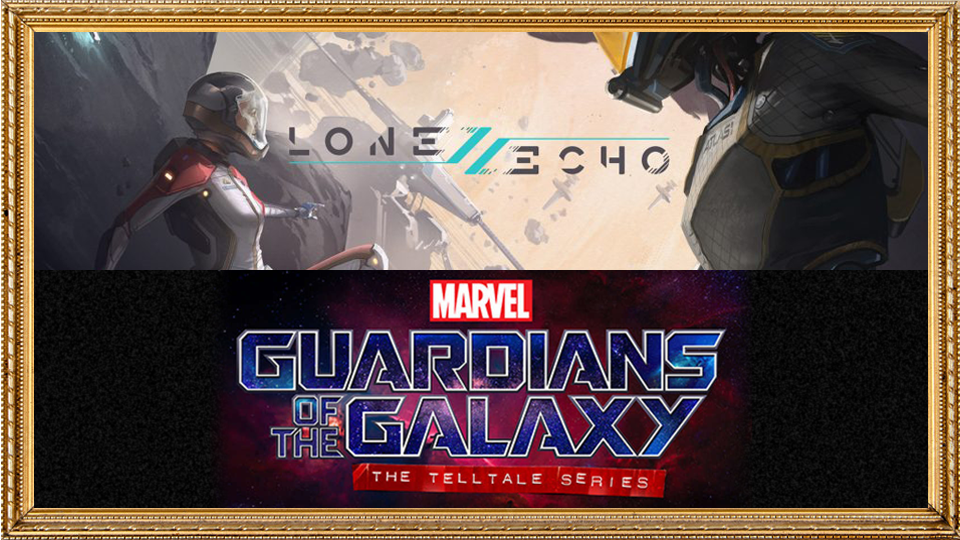
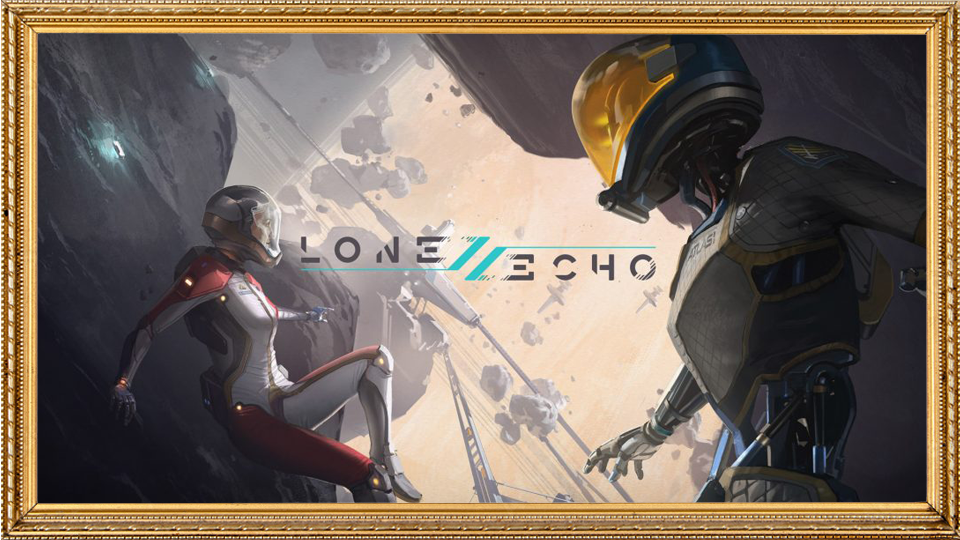
Revamped ND section

diff --git a/narrative-design/index.html b/narrative-design/index.html
@@ -62,65 +62,56 @@
         <div id="project1-content" class="piece-content">
         
             <h1>Narrative Design</h1>
-        
-            <img src="/images/buttons/home-narrative-design.png" alt="Project 1 Image" class="piece-image">
             
-            <!-- From old wordpress Portfolio -->
-            
-            <h2>Introduction</h2>
-            <p>Story is fundamental to the human experience – whether telling a story, imagining one, or living one to tell later. I’ve been honored to continue this age-old tradition through my work on some incredible properties.</p>
-
-            <h2>Lone Echo II</h2>
-            <p>As a lifelong sci-fi fan and VR enthusiast, it was a dream come true working on <em>Lone Echo II</em>. Unexpectedly taking this dream a step further, I had the incredible honor of seeing the project win the D.I.C.E. Award for Immersive Reality Game of the Year and be nominated for the Webby Award for Best Narrative Experience.</p>
-            
-            <div style="clear: both;"></div> <!-- This div clears the float (piece-image) -->
-            
-            <p>In my role as Associate Technical Narrative Designer, I was responsible for delivering a large portion of the game's narrative needs:</p>
-
-            <ul>
-                <li><a href="https://youtu.be/Y-OJlw4teFM?t=1591">Generator A</a> – Learn about your new companions while restoring power.</li>
-                <li><a href="https://www.youtube.com/watch?v=SBIibo0o1Us&amp;t=85s">Astraea Wreckage I</a> &amp; <a href="https://youtu.be/XK4T7drvxy4?t=1351">II</a> – Mend relationships while nabbing alien tech.</li>
-                <li><a href="https://youtu.be/jY1ACKXwyjM?t=1496">Research Facility</a> – Learn about your companion’s long-lost love interest while upgrading your robot shell.</li>
-                <li><a href="https://youtu.be/qpXpiKsLRcs?t=2181">Chiron Station</a> – Relive the hopes and dreams – and horrible fates – of the former station crew while exploring inside and outside the station.</li>
-            </ul>
-
-            <p>I’m especially proud of the dialogue I wrote for the Research Facility, where you discover the <a href="https://youtu.be/jY1ACKXwyjM?t=1020">heart-rending message</a> left behind for one of your companions.</p>
-            
-            <h2>Marvel’s Guardians of the Galaxy: The Telltale Series</h2>
-
-            <p>I spent much of my youth daydreaming in the Marvel universe – playing with action figures, reading comics, drawing my own superheroes, and even having a personal rendition of Spider-Man signed by Stan Lee! Little did I know I’d one day have a chance to put my mark on that universe.</p>
-
-            <p>The details below cover the work I did on Marvel’s <em>Guardians of the Galaxy</em> – a franchise known for its unique blend of thrilling adventure and emotional weight. <a href="https://youtu.be/l8nzuk-nwGY"><em>Telltale’s standalone season</em></a> contains five episodes.</p>
-
-            <h3>Season-wide</h3>
-            <ul>
-                <li>Stubbed episode descriptions for the download screen.</li>
-            </ul>
-
-            <h3>Episode 1</h3>
-            <ul>
-                <li>Stubbed dialog and stage direction for “Next Time On.”</li>
-            </ul>
-
-            <h3>Episode 2</h3>
-            <ul>
-                <li>Designed and implemented “Previously On.”</li>
-                <li>Stubbed freewalk and station camera interactions.</li>
-                <li>Performed design passes.</li>
-            </ul>
-
-            <h3>Episode 4</h3>
-            <ul>
-                <li>Stubbed dialog, stage direction, choices, and action for the spectacle-filled opening scene.</li>
-                <li>Stubbed freewalk and station camera interactions.</li>
-                <li>Implemented freewalk design.</li>
-            </ul>
-
-            <h3>Episode 5</h3>
-            <ul>
-                <li>Stubbed dialog, stage direction, choices, and interactions for a few scenes – including [spoiler alert!] the dramatic, emotional reunion between Peter and his formerly deceased mother.</li>
-                <li>Implemented freewalk design.</li>
-            </ul>
+            <div class="splash">
+                <img src="/images/buttons/home-narrative-design.png" alt="Project 1 Image" class="piece-image">
+                <div class="body-content">
+                    <h2>I love storytelling</h2>
+                    <p>Stories are of vital importance to us humans. We feel what the narrator feels, their journey moving us to tears, sparking laughter, and raising intrigue. We get excited about how our personal stories will unfold, and we love sharing the best parts with the people we care about.</p>
+                    <p>As a narrative-focused game designer, I'm proud to carry on our millenia-old tradition of storytelling in the ever-evolving medium of video games. Below are some of my favorite work samples from <em>Lone Echo II</em>, in which I was mainly responsible for the first-draft writing of dialogue and the visual scripting of dialogue events.</p>
+                    <p class="italics">Note: The videos below contain commentary to help illustrate how uniquely powerful a VR experience can feel. The first voice you hear in each video is the commentator.</p>
+                </div>
+            </div>
+            <hr>
+            <div class="splash">
+                <div class="splash-desc body-content">
+                    <h3>Astraea Wreckage &ndash; (Re)Introducing Apollo</h3>
+                    <p>Designing this section of the game was a fun balancing act. For example, Apollo's alarmed state was an effective way to introduce him in this game, since you get a nice jolt whether you remember him from the first game or are meeting him for the first time right now.</p>
+                    <p>The most challenging aspect of the bridge conversation was finding a palatable way to cover all the beats required by the game outline. Ultimately, by striking the right balance between interactivity, spectacle, and fun dialogue, we were able to maintain momentum through the scene.</p>
+                </div>
+                <div class="video-background">
+                    <div class="video-container">
+                        <iframe class="youtube-player" src="https://www.youtube.com/embed/SBIibo0o1Us?si=4LRRGB2Vp-MFOksR&amp;start=290" title="YouTube video player" frameborder="0" allow="accelerometer; autoplay; clipboard-write; encrypted-media; gyroscope; picture-in-picture; web-share" referrerpolicy="strict-origin-when-cross-origin" allowfullscreen></iframe>
+                    </div>
+                </div>
+            </div>
+            <hr>
+            <div class="splash">
+                <div class="splash-desc body-content">
+                    <h3>Research Facility &ndash; A Lost Love</h3>
+                    <p>Get ready for the most dramatic lock-and-key puzzle of all time! Seriously, though, this sequence packs an emotional punch.</p>
+                    <p>Having only heard bits and pieces about a relationship between your companion Dr. Harlan and his former crewmate, the infested research facility offers a surprise revelation: these crusading scientists were in love, but they risked it all to save humanity.</p>
+                    <p>Hopefully, their sacrifice will not have been in vain...</p>
+                </div>
+                <div class="video-background">
+                    <div class="video-container">
+                        <iframe class="youtube-player" src="https://www.youtube.com/embed/jY1ACKXwyjM?si=5q2Hk-xSGYAMSaW-&amp;start=1004" title="YouTube video player" frameborder="0" allow="accelerometer; autoplay; clipboard-write; encrypted-media; gyroscope; picture-in-picture; web-share" referrerpolicy="strict-origin-when-cross-origin" allowfullscreen></iframe>
+                    </div>
+                </div>
+            </div>
+            <hr>
+            <div class="splash">
+                <div class="splash-desc body-content">
+                    <h3>Chiron Station &ndash; Humanity's Last Hope</h3>
+                    <p>One way the <em>Lone Echo</em> series achieved such a great sense of immersion was by filling the world with side content. For example, tiny research labs scattered throughout Chrion Station provide not just equipment upgrades, but also opportunities to learn more about the hopes, dreams, and fates of the station's former occupants.</p>
+                    <p>Part of the challenge of narrative design in such an open world setting is accounting for different player states. As this video shows, players are free to discover many areas on their own; but sometimes, they're not yet equipped to proceed.</p>
+                </div>
+                <div class="video-background">
+                    <div class="video-container">
+                        <iframe class="youtube-player" src="https://www.youtube.com/embed/qpXpiKsLRcs?si=vYt5ipu9Xyh_ODKc&amp;start=585" title="YouTube video player" frameborder="0" allow="accelerometer; autoplay; clipboard-write; encrypted-media; gyroscope; picture-in-picture; web-share" referrerpolicy="strict-origin-when-cross-origin" allowfullscreen></iframe>
+                    </div>
+                </div>
+            </div>
             
         </div> <!-- piece-content -->
 

diff --git a/child-page.css b/child-page.css
@@ -1,5 +1,9 @@
+/************************************************************************************/
+/* MAIN CONTENT *********************************************************************/
+/************************************************************************************/
+
 .piece-content {
-    margin: 0 auto 20px;
+    margin: 0 auto 50px;
     padding: 20px;
     background-color: #f9f9f9;
     border: 1px solid #ddd;
@@ -30,7 +34,7 @@
     width: 100%;
     max-width: 400px;
     height: auto;
-    margin-right: 20px;
+    /*margin-right: 20px;*/
     margin-bottom: 10px;
     float: left;
     box-shadow: 0 4px 8px rgba(0, 0, 0, 0.3); /* Soft shadow */
@@ -78,14 +82,27 @@ th {
     border-right: none;
 }
 
+.splash {
+    display: flex;
+    flex-direction: column;
+    justify-content: center;
+    align-items: center;
+}
+
+.splash img {
+    display: block;
+}
+
 .video-background {
-    background-color: #000000;
-    border-radius: 8px;
+    width: 100%;
+    height: auto;
+    margin: 20px;
+    padding: 20px;
 }
 
 .video-container {
-    max-width: calc(70% - 40px); /* 40px total margin (20px on each side) */
-    margin: 20px auto; /* Centers the iframe */
+    width: 100%;
+    height: auto;
 }
 
 .youtube-player {
@@ -94,4 +111,24 @@ th {
     aspect-ratio: 16 / 9; /* Ensures correct aspect ratio */
     border: 0; /* Removes default border */
     display: block; /* Removes inline-block whitespace */
+}
+
+/************************************************************************************/
+/* BREAKPOINTS **********************************************************************/
+/************************************************************************************/
+
+@media (min-width: 768px) {
+    
+    .splash {
+        flex-direction: row;
+    }
+    
+    .splash-desc {
+        max-width: 50%;
+    }
+    
+    .video-background {
+        width: 50%;
+    }
+
 }

diff --git a/style.css b/style.css
@@ -32,7 +32,8 @@ body {
 }
 
 .body-content {
-    padding: 0 20px;
+    padding: 10px;
+    margin: 10px;
 }
 
 header { grid-row: 1; }
@@ -75,7 +76,6 @@ h1 {
 }
 
 p {
-    font-size: 1.1em; 
     line-height: 1.3;
     margin-bottom: 10px;
 }
@@ -364,6 +364,11 @@ figcaption {
     
     .at-button {
         display: block;
+    }
+    
+    .body-content {
+        padding: 20px;
+        margin: 20px;
     }
 }
 
